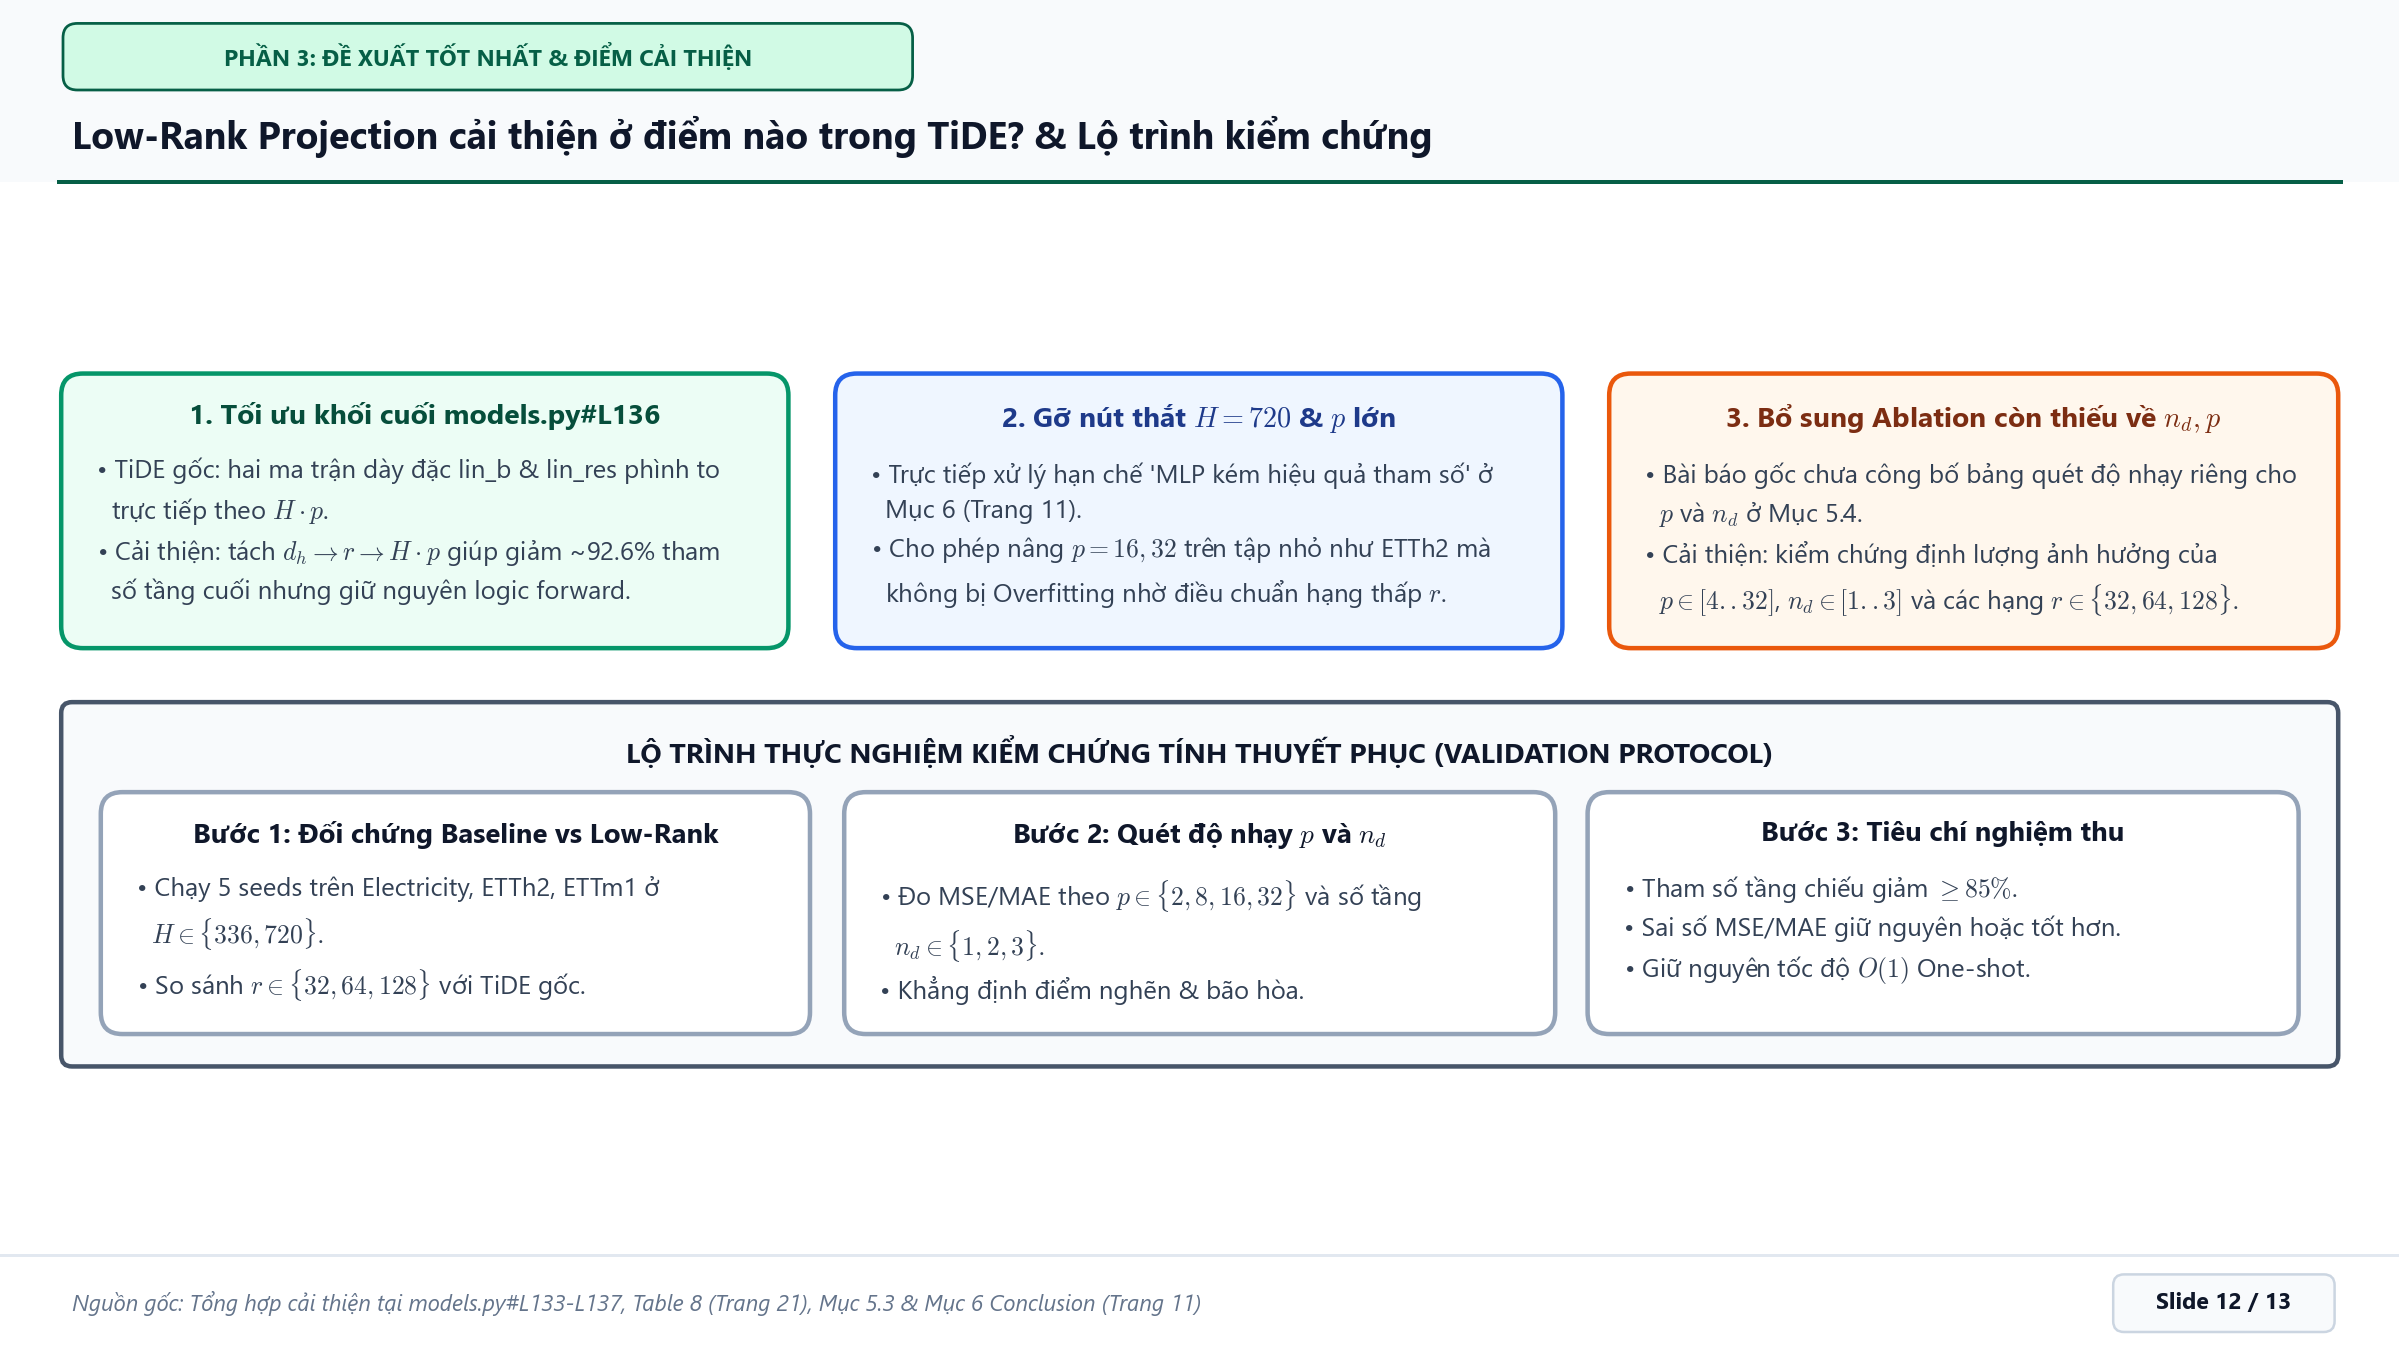
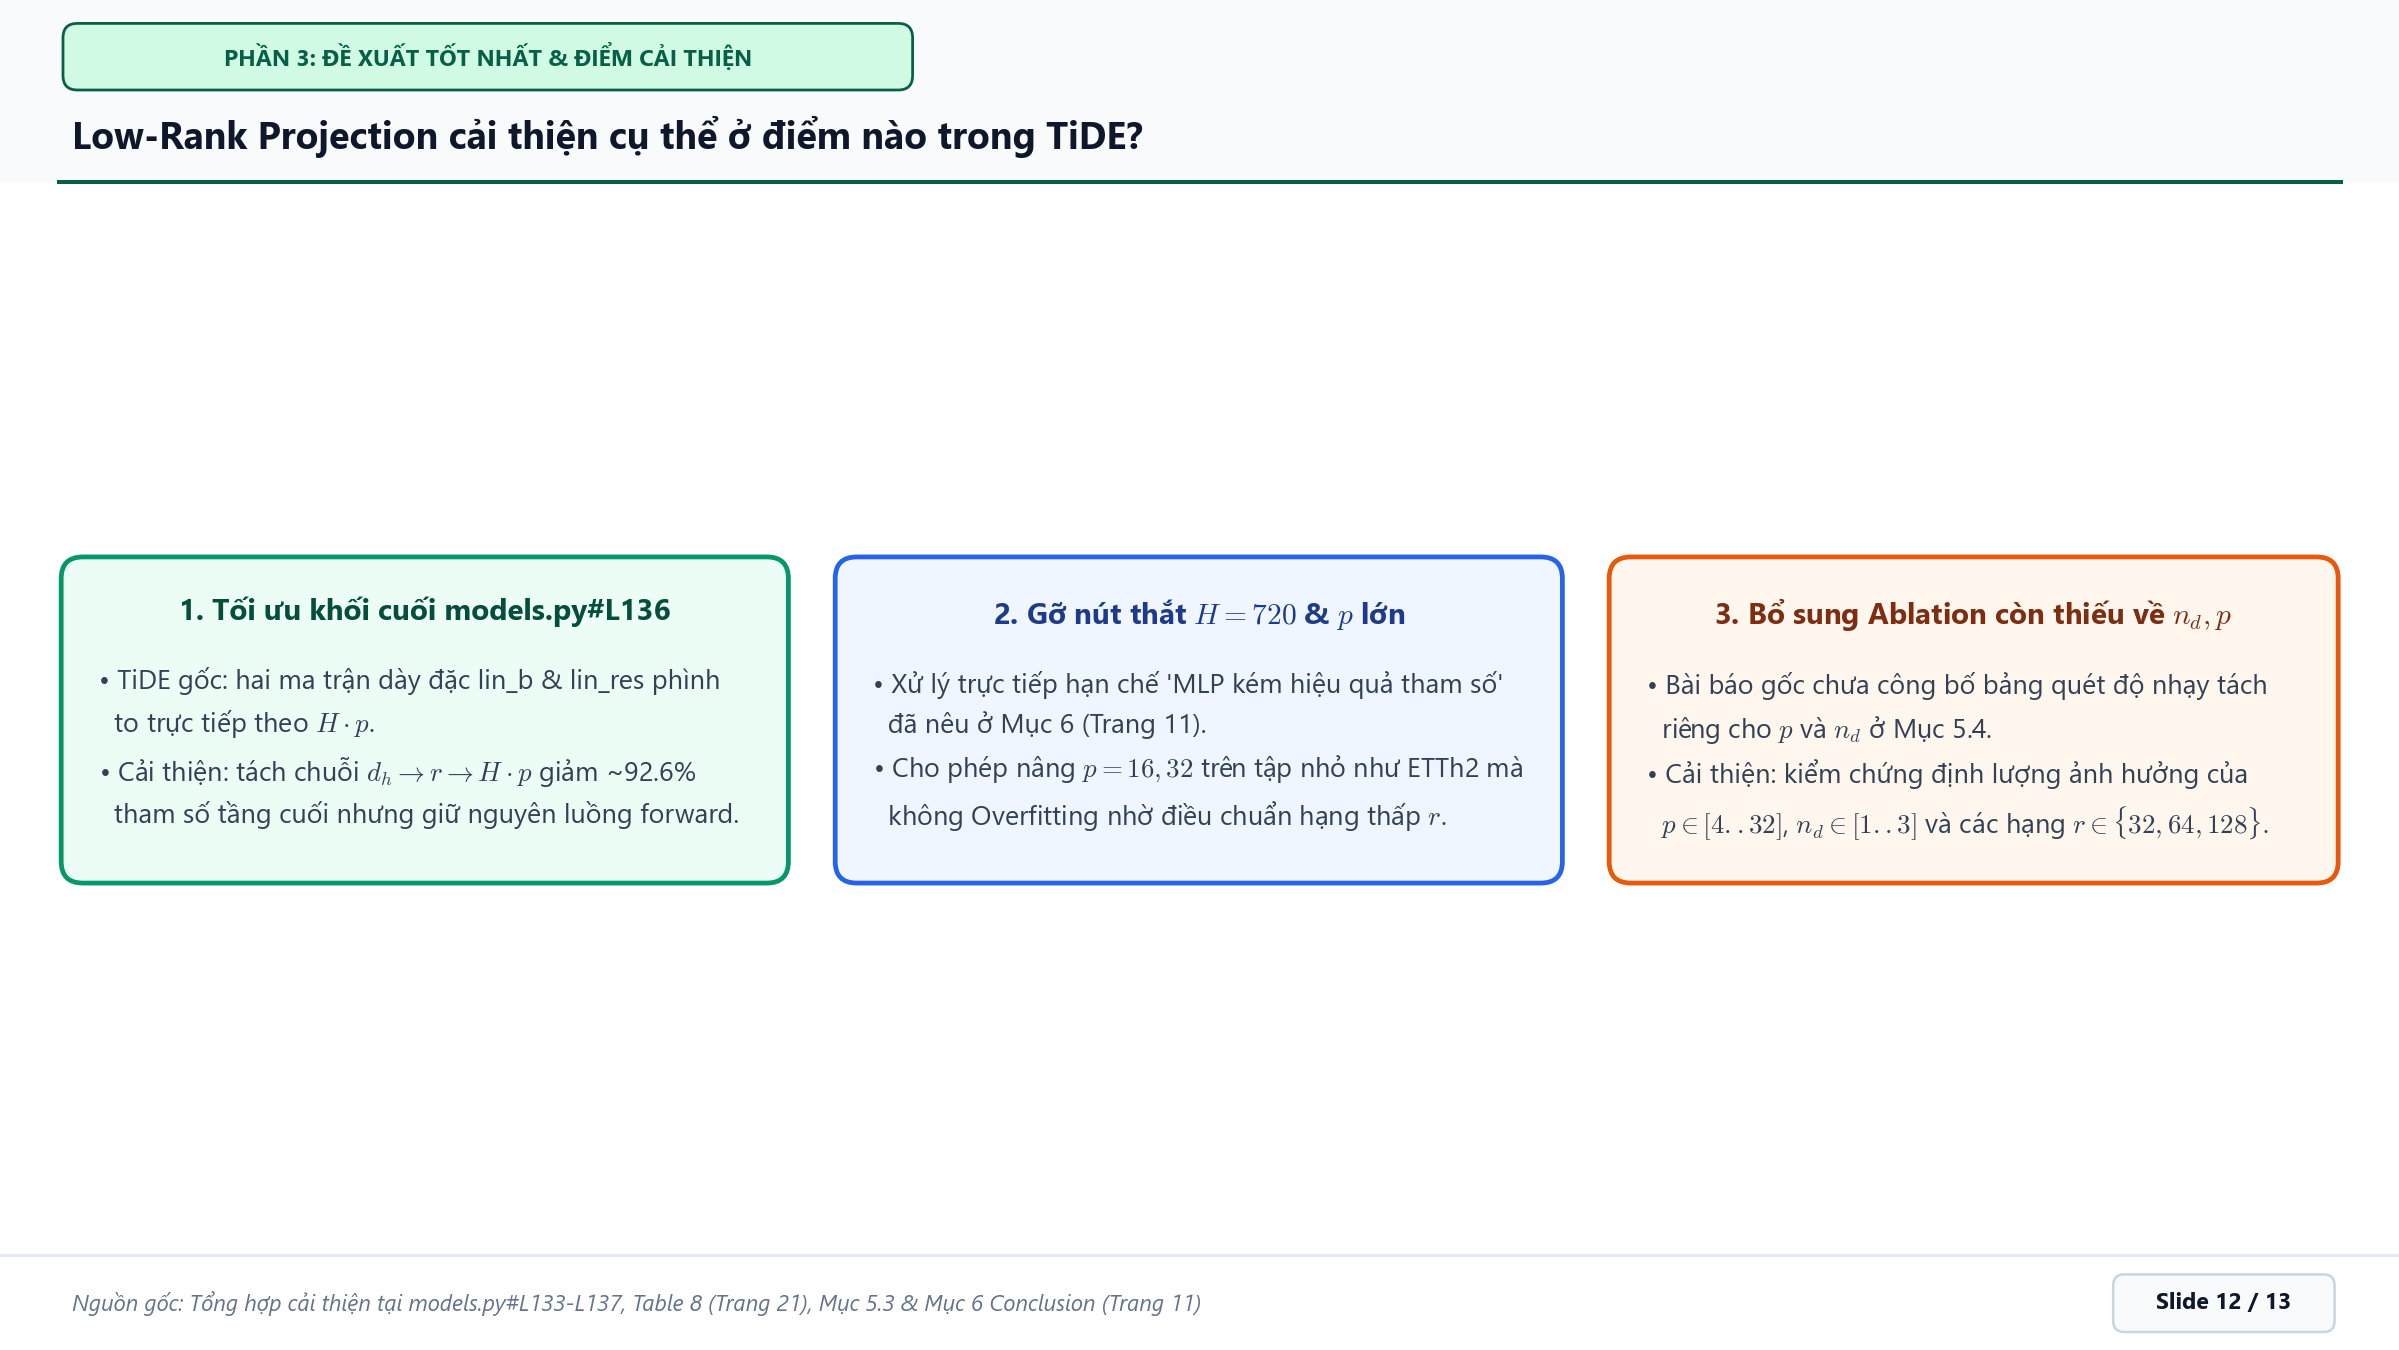
Remove validation protocol card from Slide 12 / 13

Changed region(s): [[0.0308, 0.2489, 0.9871, 0.8089], [0.0308, 0.2489, 0.3085, 0.3111], [0.2468, 0.0933, 0.6169, 0.1244]]

diff --git a/tasks-Hieu/presentation/slide/script_thuyet_trinh_tung_slide.md b/tasks-Hieu/presentation/slide/script_thuyet_trinh_tung_slide.md
@@ -316,29 +316,23 @@ Và chính tác giả bài báo cũng thẳng thắn thừa nhận giới hạn 
 
 ---
 
-### 🟢 SLIDE 12 / 13 — ĐIỂM CẢI THIỆN CỤ THỂ TRONG TiDE & LỘ TRÌNH THỰC NGHIỆM
+### 🟢 SLIDE 12 / 13 — ĐIỂM CẢI THIỆN CỤ THỂ TRONG TiDE
 
-* **Ảnh slide:** `slide_10_diem_cai_thien_va_roadmap.png` ([Xem ảnh trong gallery](./slide_images_gallery.md#slide-12--13-điểm-cải-thiện-cụ-thể-trong-tide--validation-protocol))
-* **Thời lượng dự kiến:** 75 – 85 giây.
-* **Mục tiêu slide:** Tổng kết 3 điểm cải thiện cụ thể trong TiDE và chốt lộ trình thực nghiệm 3 bước (Validation Protocol) thật rõ ràng để cả nhóm bắt tay vào làm trên Kaggle.
+* **Ảnh slide:** `slide_10_diem_cai_thien_va_roadmap.png` ([Xem ảnh trong gallery](./slide_images_gallery.md#slide-12--13-điểm-cải-thiện-cụ-thể-trong-tide))
+* **Thời lượng dự kiến:** 50 – 60 giây.
+* **Mục tiêu slide:** Tổng kết cô đọng 3 điểm cải thiện cụ thể mà Low-Rank Projection mang lại trực tiếp cho khối Dense Decoder của TiDE trước khi kết thúc phần trình bày.
 
-![Slide 12: Điểm cải thiện cụ thể trong TiDE và lộ trình kiểm chứng](./images/slide_10_diem_cai_thien_va_roadmap.png)
+![Slide 12: Điểm cải thiện cụ thể trong TiDE](./images/slide_10_diem_cai_thien_va_roadmap.png)
 
 #### 🎙 Lời thoại trình bày (Team Tech-talk):
 
-Để khép lại phần trình bày, Slide 12 tóm tắt **3 điểm giải pháp Low-Rank cải thiện trực tiếp cho TiDE** và **lộ trình thực nghiệm 3 bước** để kiểm chứng tính thuyết phục:
+Để chốt lại Phần 3, Slide 12 tóm gọn **3 điểm mà giải pháp Low-Rank Projection cải thiện trực tiếp cho mô hình TiDE**:
 
-**Về 3 điểm cải thiện cụ thể trong TiDE:**
 1. **Tối ưu khối cuối tại `models.py#L136`:** Ở TiDE gốc, hai ma trận dày đặc `lin_b` và `lin_res` phình to trực tiếp theo $H \cdot p$. Khi tách thành $d_h \to r \to H \cdot p$, ta giảm được ~92.6% tham số tầng cuối nhưng vẫn giữ nguyên hoàn toàn logic forward của phần còn lại.
-2. **Gỡ nút thắt $H = 720$ và $p$ lớn:** Giải pháp này xử lý trực tiếp hạn chế *"MLP kém hiệu quả tham số"* ở Mục 6 bài báo, giúp nhóm mình tự tin nâng $p = 16, 32$ trên các tập dữ liệu nhỏ như `ETTh2` mà không bị Overfitting nhờ điều chuẩn hạng thấp $r$.
-3. **Bổ sung Ablation còn thiếu về $n_d$ và $p$:** Bài báo gốc chưa từng công bố bảng quét độ nhạy riêng cho $p$ và $n_d$ ở Mục 5.4; nhóm mình sẽ kiểm chứng định lượng ảnh hưởng của $p \in [4..32]$, $n_d \in [1..3]$ và các mức hạng $r \in \{32, 64, 128\}$.
+2. **Gỡ nút thắt** $H = 720$ **và** $p$ **lớn:** Giải pháp này xử lý trực tiếp hạn chế *"MLP kém hiệu quả tham số"* ở Mục 6 bài báo, giúp nhóm mình có thể nâng $p = 16, 32$ trên các tập dữ liệu nhỏ như `ETTh2` mà không bị Overfitting nhờ cơ chế điều chuẩn hạng thấp $r$.
+3. **Bổ sung Ablation còn thiếu về** $n_d$ **và** $p$: Bài báo gốc chưa công bố bảng quét độ nhạy riêng cho $p$ và $n_d$ ở Mục 5.4; đây là cơ sở để tiến hành kiểm chứng định lượng ảnh hưởng của $p \in [4..32]$, $n_d \in [1..3]$ và các mức hạng $r \in \{32, 64, 128\}$.
 
-**Về lộ trình thực nghiệm 3 bước (Validation Protocol):**
-* **Bước 1 — Đối chứng Baseline vs Low-Rank:** Chạy với 5 seed độc lập trên 3 tập đại diện (`Electricity`, `ETTh2`, `ETTm1`) ở tầm xa $H \in \{336, 720\}$, so sánh các mức hạng $r \in \{32, 64, 128\}$ với TiDE gốc.
-* **Bước 2 — Quét độ nhạy $p$ và $n_d$:** Đo sai số MSE/MAE theo $p \in \{2, 8, 16, 32\}$ và số tầng $n_d \in \{1, 2, 3\}$ để khẳng định bằng số liệu thực tế điểm nghẽn thông tin và điểm bão hòa.
-* **Bước 3 — Tiêu chí nghiệm thu:** Đạt yêu cầu khi tham số tầng chiếu giảm $\ge 85\%$, sai số MSE/MAE giữ nguyên hoặc tốt hơn bản gốc, và giữ nguyên tốc độ $O(1)$ One-Shot.
-
-Mình đã chuẩn bị sẵn hướng dẫn chạy song song 2 tài khoản Kaggle trên trình duyệt Brave trong thư mục `kaggle/` để cả nhóm có 60 giờ GPU miễn phí mỗi tuần. Giờ mời anh em cùng trao đổi và chia task thực nghiệm nhé!
+Đến đây phần phân tích chuyên sâu về khối Dense Decoder của mình xin khép lại, mời cả nhóm sang Slide 13 để cùng đặt câu hỏi thảo luận nhé!
 
 ---
 

diff --git a/tasks-Hieu/presentation/slide/slide_03_phan_3_de_xuat_cai_tien.md b/tasks-Hieu/presentation/slide/slide_03_phan_3_de_xuat_cai_tien.md
@@ -38,20 +38,14 @@ flowchart LR
 
 ---
 
-## Slide 12 / 13 — Điểm Cải Thiện Cụ Thể Trong TiDE & Lộ Trình Thực Nghiệm
+## Slide 12 / 13 — Điểm Cải Thiện Cụ Thể Trong TiDE
 
-![Slide 12: Điểm cải thiện & Validation Protocol](./images/slide_10_diem_cai_thien_va_roadmap.png)
+![Slide 12: Điểm cải thiện cụ thể trong TiDE](./images/slide_10_diem_cai_thien_va_roadmap.png)
 
-### 1. Phương án này cải thiện ở 3 điểm cụ thể nào trong TiDE?
+### Phương án Low-Rank Projection cải thiện ở 3 điểm cụ thể nào trong TiDE?
 
 | STT | Vị trí trong TiDE | Vấn đề hiện tại | Giá trị cải thiện mang lại |
 | :--- | :--- | :--- | :--- |
 | **1** | **Tầng chiếu cuối `models.py#L136`** | Cả `lin_b` và `lin_res` mở rộng thẳng từ $d_h \rightarrow H \cdot p$. | Tách chuỗi $d_h \rightarrow r \rightarrow H \cdot p$, giảm ~92.6% số tham số tầng cuối nhưng giữ nguyên luồng forward `MLPResidual`. |
 | **2** | **Nút thắt** $H = 720$ & $p$ lớn (Mục 6 & Table 8) | Tốn VRAM & dễ Overfitting khi chọn $p = 32$ trên tập nhỏ (ETTh2) hoặc horizon dài $H = 720$. | Cho phép tăng dung lượng vector bối cảnh $p \in [16, 32]$ giúp mô tả chi tiết hơn mà không làm bùng nổ tham số. |
 | **3** | **Khoảng trống Ablation Mục 5.4** | Bài báo gốc chưa công bố bảng quét độ nhạy tách riêng cho $p$, $n_d$ trên 7 benchmark datasets. | Bổ sung trọn vẹn thực nghiệm quét nhạy cảm giữa $(p, n_d)$ và các hạng phân rã $r \in \{32, 64, 128\}$. |
-
-### 2. Lộ trình thực nghiệm kiểm chứng tính thuyết phục (Validation Protocol)
-
-1. **Bước 1 — Đối chứng Baseline vs Low-Rank:** Chạy trung bình 5 seeds trên Electricity, ETTh2 và ETTm1 ở $H \in \{336, 720\}$, so sánh `MLPResidual` gốc với phiên bản Low-Rank $r \in \{32, 64, 128\}$.
-2. **Bước 2 — Quét độ nhạy siêu tham số** $p$ & $n_d$: Đo MSE/MAE theo $p \in \{2, 8, 16, 32\}$ và $n_d \in \{1, 2, 3\}$ để kiểm chứng thực nghiệm hiện tượng nghẽn thông tin ($p$ nhỏ) và bão hòa ($n_d \geq 3$).
-3. **Bước 3 — Tiêu chí nghiệm thu:** Giảm $\geq 85\%$ tham số tầng chiếu cuối, giữ nguyên tốc độ suy luận One-Shot $O(1)$ trên GPU và đạt MSE/MAE tương đương hoặc tốt hơn bản TiDE gốc.

diff --git a/tasks-Hieu/presentation/slide/README.md b/tasks-Hieu/presentation/slide/README.md
@@ -20,7 +20,7 @@ Thư mục này chứa toàn bộ tài liệu trình chiếu Seminar tập trung
 | **Intro & Outro** | [`slide_images_gallery.md`](./slide_images_gallery.md) | **Slide 01 / 13 (Intro)** & **Slide 13 / 13 (Outro)** (`TiDE: Dense Decoder` — `Thanks for listening!`) |
 | **Phần 1** | [`slide_01_phan_1_ly_thuyet_va_toan_hoc.md`](./slide_01_phan_1_ly_thuyet_va_toan_hoc.md) | **Slide 02 – 07:** Thuật ngữ cốt lõi, Vị trí trên Figure 1, So sánh One-Shot vs Tuần tự, $n_d$ Residual Blocks ($\mathbf{e}^{(i)} \rightarrow \mathbf{g}^{(i)}$), Reshape & $\mathbf{d}_t^{(i)}$ |
 | **Phần 2** | [`slide_02_phan_2_source_code_va_phan_tich.md`](./slide_02_phan_2_source_code_va_phan_tich.md) | **Slide 08 – 10:** Source code chính thức `models.py` & PyTorch, Bảng siêu tham số Table 7 & Table 8 (7 datasets), Phân tích $p, n_d$ & Giới hạn $H$ dài |
-| **Phần 3** | [`slide_03_phan_3_de_xuat_cai_tien.md`](./slide_03_phan_3_de_xuat_cai_tien.md) | **Slide 11 – 12:** Đề xuất tốt nhất (Low-Rank Dense Decoder Projection — Hu et al. 2022 LoRA & Sainath et al. 2013), Điểm cải thiện & Lộ trình kiểm chứng |
+| **Phần 3** | [`slide_03_phan_3_de_xuat_cai_tien.md`](./slide_03_phan_3_de_xuat_cai_tien.md) | **Slide 11 – 12:** Đề xuất tốt nhất (Low-Rank Dense Decoder Projection — Hu et al. 2022 LoRA & Sainath et al. 2013) & 3 Điểm cải thiện cụ thể trong TiDE |
 | **Gallery** | [`slide_images_gallery.md`](./slide_images_gallery.md) | Trang xem nhanh toàn bộ **13 ảnh PNG** (`13.333 × 7.5 in`, 180 DPI) |
 | **Kịch bản** | [`script_thuyet_trinh_tung_slide.md`](./script_thuyet_trinh_tung_slide.md) | Lời nói chi tiết (từng giây, chuyển ý, Q&A) cho toàn bộ 13 Slide |
 | **Quy chuẩn** | [`rule_slide.md`](./rule_slide.md) | Bộ 5 nhóm quy tắc thiết kế slide Seminar & Zero-Dead-Space Auto-Fit |
